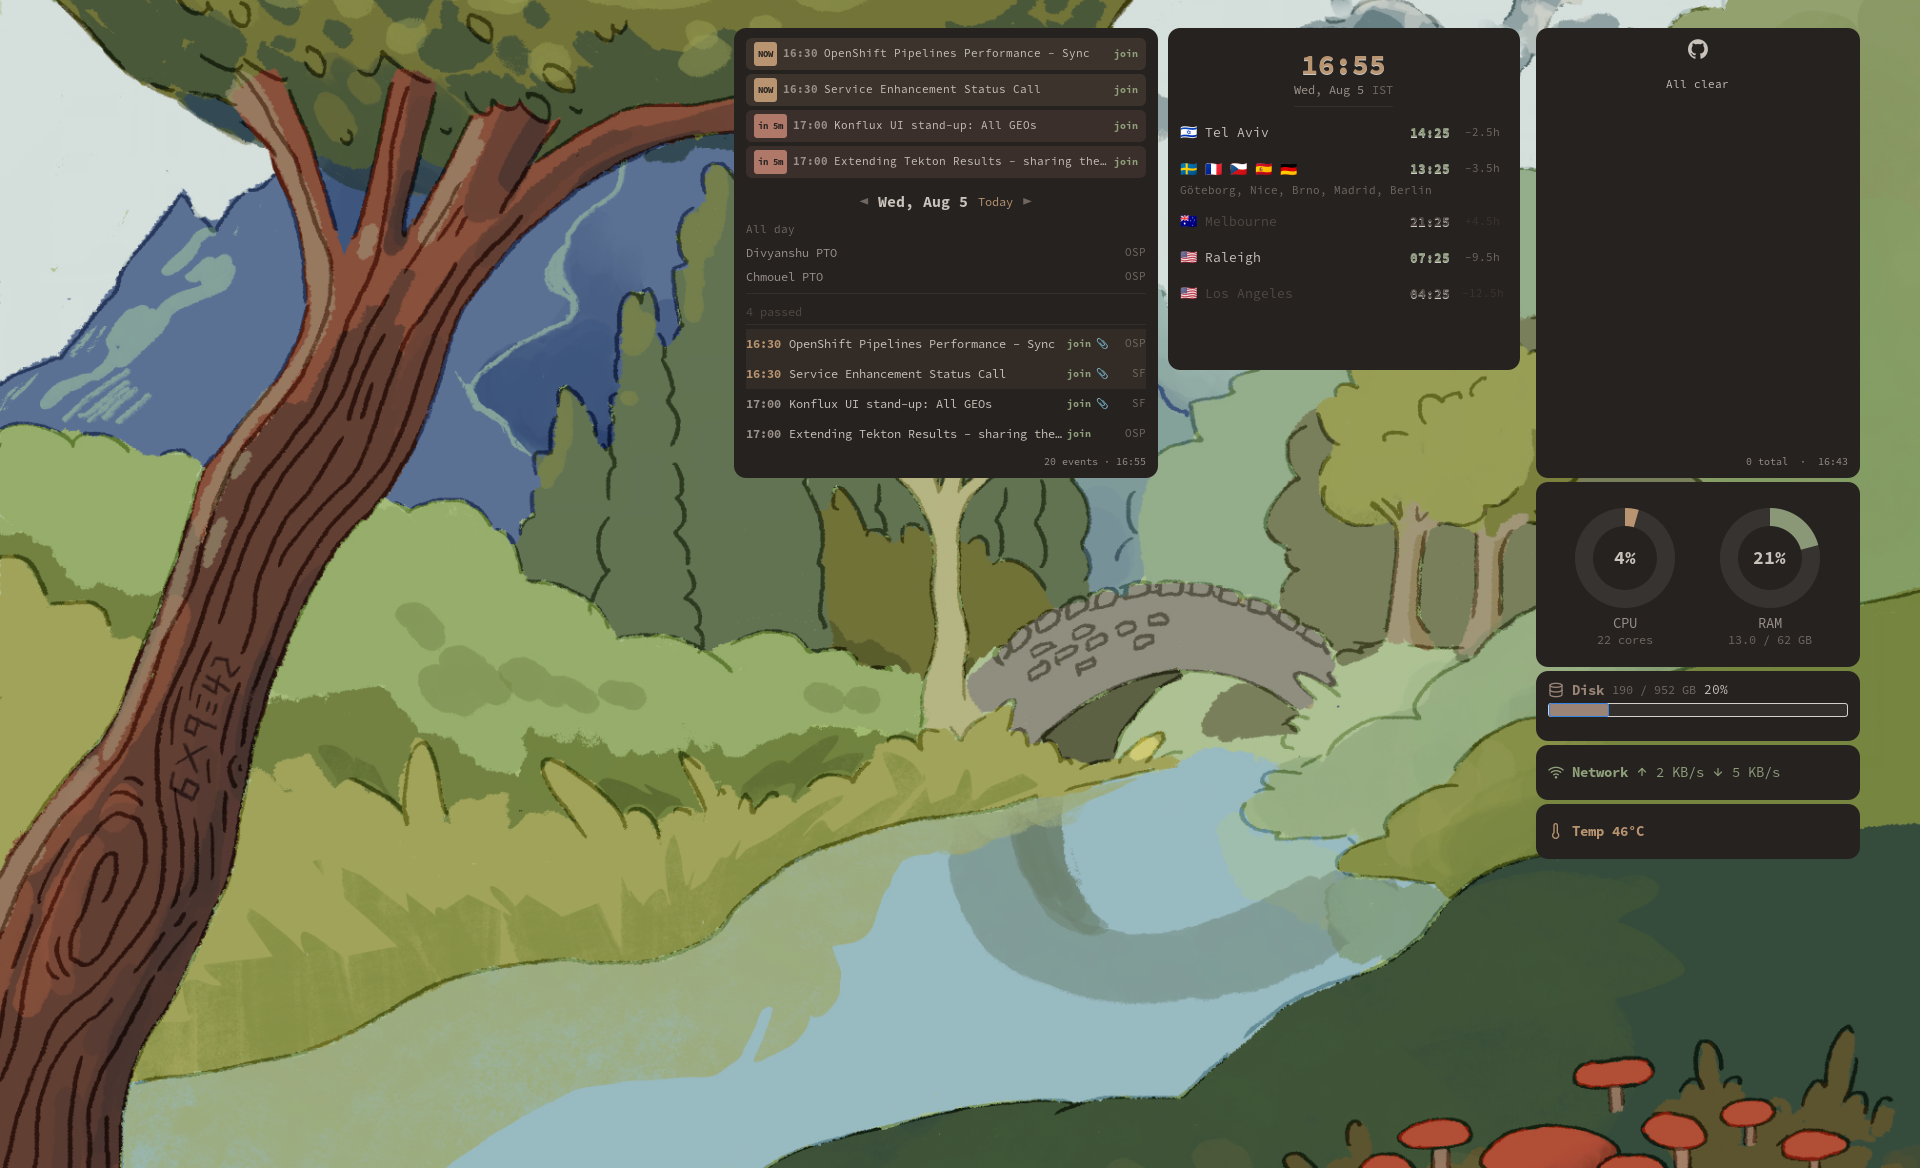
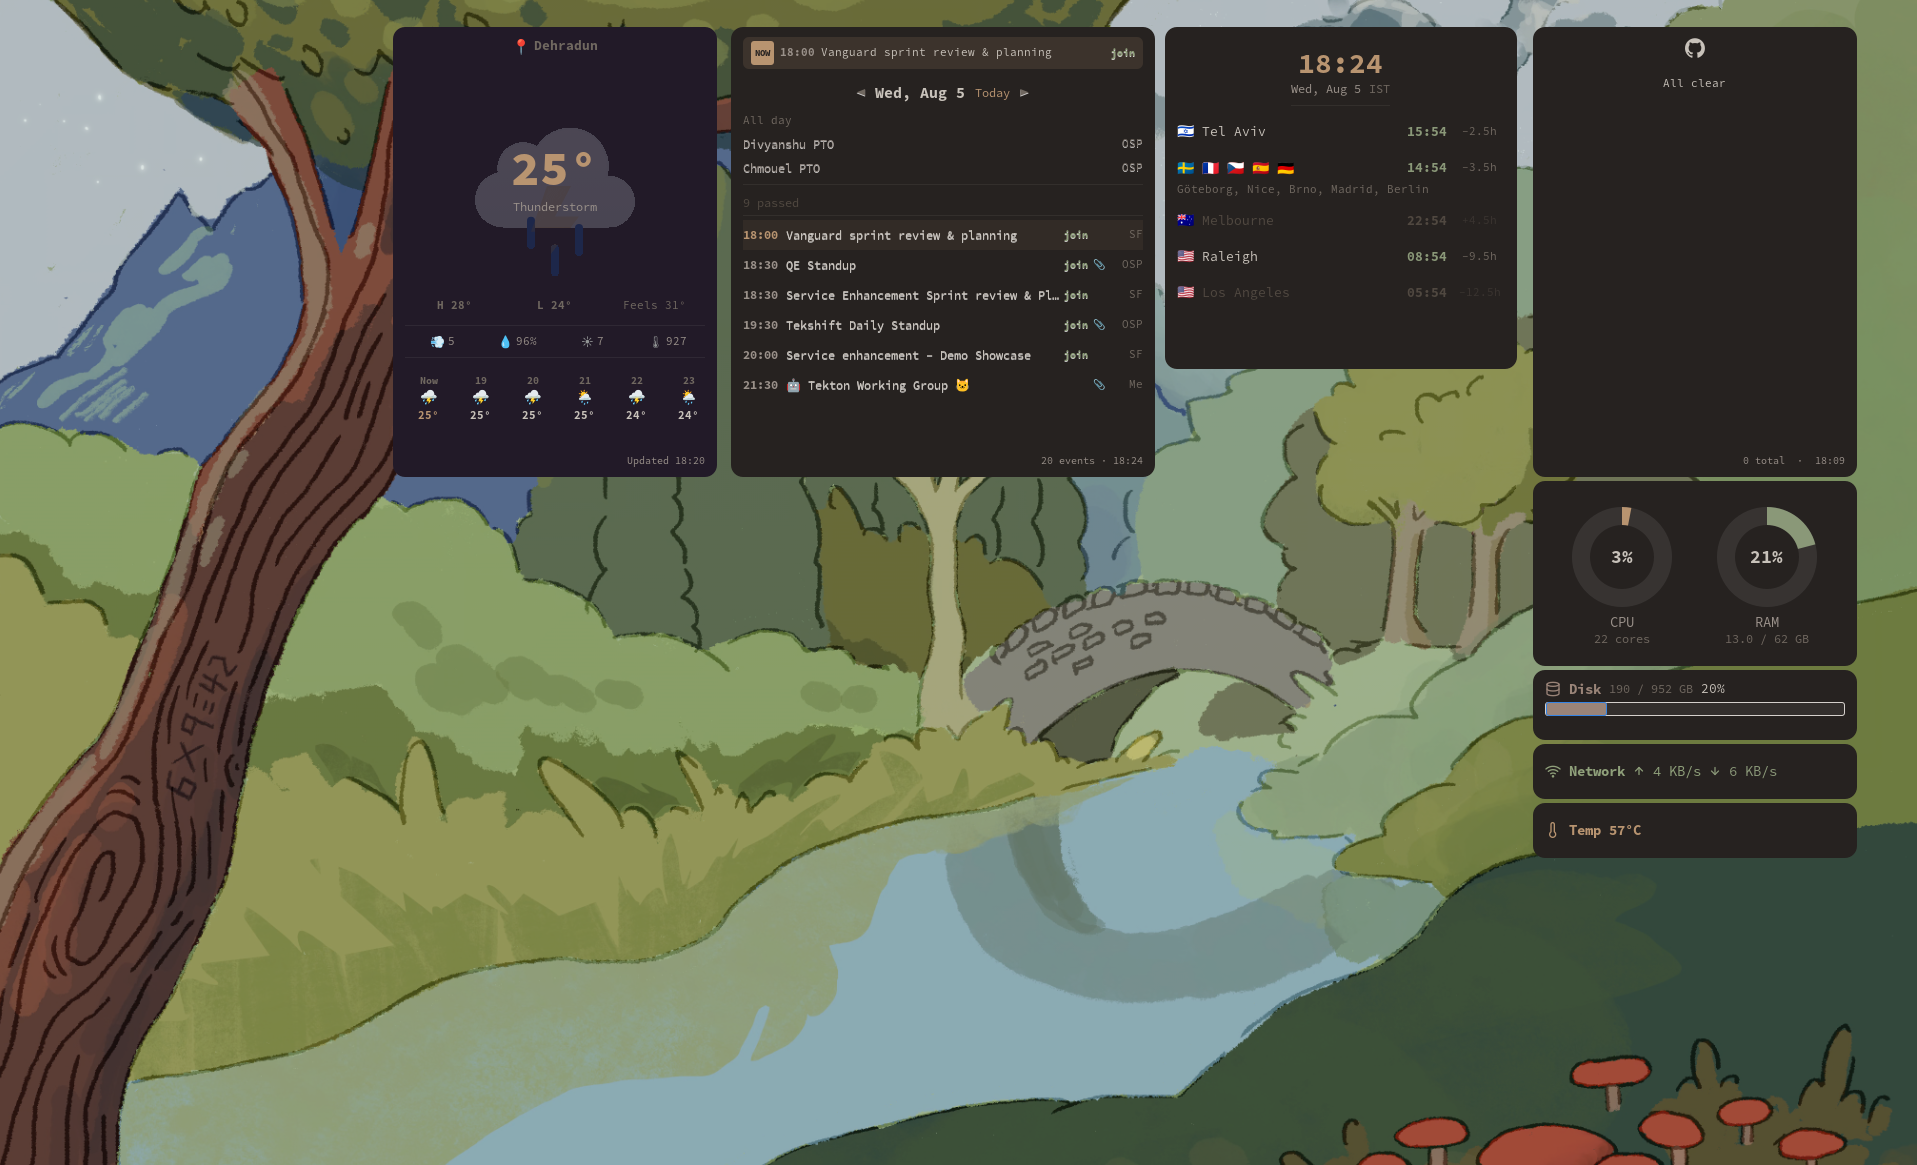
feat: add weather desktop widget
Current conditions with animated icon overlay, hourly forecast,
and condition-responsive card backgrounds using Open-Meteo's
free API. City is configured in config.yaml and resolved via
geocoding. Animated weather icons are converted from Meteocons
SVGs to transparent GIFs since GTK's librsvg doesn't support
SMIL animations.

diff --git a/widgets/_weather.scss b/widgets/_weather.scss
@@ -1,0 +1,160 @@
+// Condition themes — background shifts based on weather + time of day
+.weather-clear-day {
+    background-color: #2d2520;
+}
+
+.weather-clear-night {
+    background-color: #1a1a24;
+}
+
+.weather-cloudy {
+    background-color: #252525;
+}
+
+.weather-cloudy-night {
+    background-color: #1c1c22;
+}
+
+.weather-rain {
+    background-color: #202428;
+}
+
+.weather-rain-night {
+    background-color: #181c20;
+}
+
+.weather-snow {
+    background-color: #262830;
+}
+
+.weather-snow-night {
+    background-color: #1c1e26;
+}
+
+.weather-storm {
+    background-color: #221a28;
+}
+
+.weather-storm-night {
+    background-color: #1a1420;
+}
+
+.weather-fog {
+    background-color: #242422;
+}
+
+.weather-fog-night {
+    background-color: #1c1c1a;
+}
+
+// Temperature color classes
+.temp-cold {
+    color: #9a918a;
+}
+
+.temp-cool {
+    color: #8a9878;
+}
+
+.temp-mild {
+    color: #c8c2ba;
+}
+
+.temp-warm {
+    color: #b89470;
+}
+
+.temp-hot {
+    color: #b07868;
+}
+
+// City
+.weather-city-pin {
+    font-size: 13px;
+}
+
+.weather-city {
+    color: #706860;
+    font-size: 13px;
+    font-weight: bold;
+    margin-bottom: 4px;
+}
+
+// Animated GIF behind temperature
+.weather-icon-bg {
+    opacity: 0.2;
+    margin: -8px 0;
+}
+
+// Hero temperature
+.weather-temp {
+    font-size: 48px;
+    font-weight: 900;
+}
+
+// Condition
+.weather-condition {
+    color: #9a918a;
+    font-size: 12px;
+    margin-bottom: 4px;
+}
+
+// High / Low / Feels like
+.weather-hilo {
+    margin-bottom: 12px;
+}
+
+.weather-hilo-item {
+    color: #706860;
+    font-size: 11px;
+    font-weight: bold;
+}
+
+.weather-feels {
+    color: #706860;
+    font-size: 11px;
+}
+
+// Stats
+.weather-stats {
+    padding: 8px 0;
+    border-top: 1px solid rgba(200, 194, 186, 0.08);
+    border-bottom: 1px solid rgba(200, 194, 186, 0.08);
+    margin-bottom: 8px;
+}
+
+.weather-stat-icon {
+    font-size: 12px;
+}
+
+.weather-stat {
+    color: #9a918a;
+    font-size: 11px;
+}
+
+// Hourly forecast
+.weather-hourly-scroll {
+    border-radius: 4px;
+    margin-top: 4px;
+}
+
+.wh-item {
+    padding: 4px 6px;
+    border-radius: 4px;
+    min-width: 36px;
+}
+
+.wh-time {
+    color: #706860;
+    font-size: 10px;
+    font-weight: bold;
+}
+
+.wh-icon {
+    font-size: 14px;
+}
+
+.wh-temp {
+    font-size: 11px;
+    font-weight: bold;
+}

diff --git a/eww.scss b/eww.scss
@@ -76,3 +76,4 @@ scrollbar slider:hover {
 @import "widgets/stats";
 @import "widgets/watch";
 @import "widgets/calendar";
+@import "widgets/weather";
